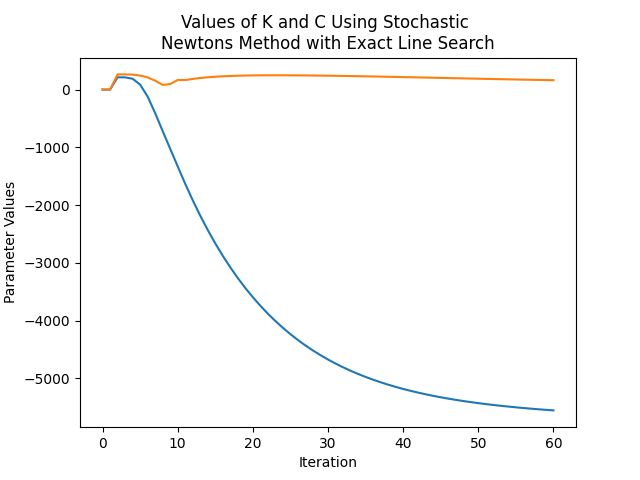
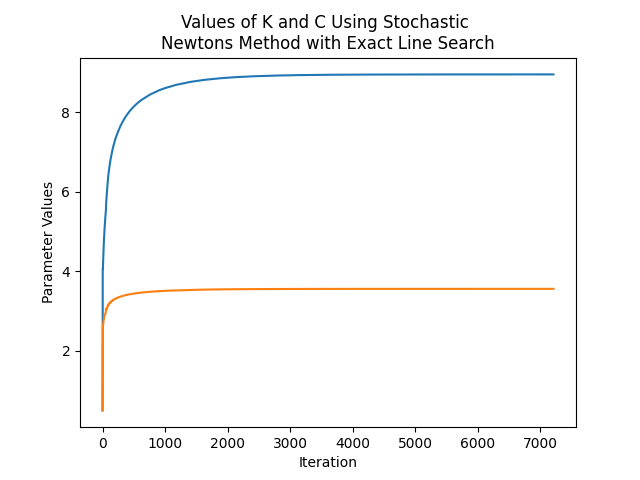
got newtons method working correctly

diff --git a/problem2/newtons_method.py b/problem2/newtons_method.py
@@ -166,13 +166,11 @@ def exact_line_search(
 ) -> np.ndarray[float, float]:
     '''
     '''
-    log_values = np.logspace(-2, 2, num = 4, base = 10.0)
-    incremental_values = np.arange(0.2, 1.01, 0.2)
+    log_values = np.logspace(-10, -5, num = 5, base = 10.0)
 
-    step_sizes = np.outer(log_values, incremental_values).flatten()
-    X, Y = np.meshgrid(step_sizes, step_sizes)
+    X, Y = np.meshgrid(log_values, log_values)
     meshed_step_sizes = np.stack((X, Y), axis = -1)
-    meshed_step_sizes = meshed_step_sizes.reshape(len(step_sizes)**2, 2)
+    meshed_step_sizes = meshed_step_sizes.reshape(len(log_values)**2, 2)
 
     exact_lines = np.array([
         [
@@ -197,15 +195,13 @@ def exact_line_search(
 
 def newtons_method_using_exact_line_search(
     y : np.ndarray,
-    tolerance : float = 10,
+    tolerance : float = 1e-2,
     damping_factor : float = 1e-10
 ) -> tuple[float, float, np.ndarray, np.ndarray, np.ndarray]:
     '''
     '''
     _k = 0.5
     _c = 0.5
-
-    alpha = 1e-10
     
     k_history = []
     k_history.append(_k)
@@ -224,33 +220,23 @@ def newtons_method_using_exact_line_search(
     )
 
     while (np.amax(np.abs(omega)) > tolerance):
+        hessian = log_likelihood_hessian(_k, _c, y)
+
         omega = -np.linalg.solve(
-            np.linalg.inv(log_likelihood_hessian(_k, _c, y) + damping_factor * np.eye(2)),
+            np.linalg.inv(hessian + damping_factor * np.eye(2)),
             log_likelihood_gradient(_k, _c, y)
         )
+
+        meshed_step_size = exact_line_search(_k, _c, y, omega)
         
-        _k = _k + alpha * omega[0]
+        _k = _k + meshed_step_size[0] * omega[0]
         k_history.append(_k)
 
-        _c = _c + alpha * omega[1]
+        _c = _c + meshed_step_size[1] * omega[1]
         c_history.append(_c)
 
         log_likelihood = log_likelihood_function(_k, _c, y)
         log_likelihood_history.append(log_likelihood)
-
-        while log_likelihood_function(_k, _c, y) > log_likelihood:
-            alpha *= 0.1
-
-            _k = _k + alpha * omega[0]
-            k_history.append(_k)
-
-            _c = _c + alpha * omega[1]
-            c_history.append(_c)
-
-            log_likelihood = log_likelihood_function(_k, _c, y)
-            log_likelihood_history.append(log_likelihood)
-
-        alpha = alpha**0.5
 
     best_k = _k
     best_c = _c

diff --git a/problem2/Problem2.py b/problem2/Problem2.py
@@ -96,6 +96,9 @@ def optimizer_3_report(
     tolerance = 1e-1
     best_k, best_c, k_history, c_history, log_likelihood_history = stochastic_gradient_descent_using_exact_line_search(y, tolerance)
 
+    print(best_k)
+    print(best_c)
+
     # Plot Log-Likelihood
     iterations = np.arange(0, len(log_likelihood_history))
     sns.lineplot(x = iterations, y = log_likelihood_history)
@@ -167,23 +170,23 @@ if __name__ == '__main__':
 
     y = np.genfromtxt(file_directory, delimiter = ',').flatten()
 
-    start_time = time.time()
-    optimizer_1_report(y)
-    end_time = time.time()
-    total_time = end_time - start_time
-    print(fr'Total time taken for optimizer 1: {total_time}')
+    # start_time = time.time()
+    # optimizer_1_report(y)
+    # end_time = time.time()
+    # total_time = end_time - start_time
+    # print(fr'Total time taken for optimizer 1: {total_time}')
 
-    start_time = time.time()
-    optimizer_2_report(y)
-    end_time = time.time()
-    total_time = end_time - start_time
-    print(fr'Total time taken for optimizer 2: {total_time}')
+    # start_time = time.time()
+    # optimizer_2_report(y)
+    # end_time = time.time()
+    # total_time = end_time - start_time
+    # print(fr'Total time taken for optimizer 2: {total_time}')
 
-    start_time = time.time()
-    optimizer_3_report(y)
-    end_time = time.time()
-    total_time = end_time - start_time
-    print(fr'Total time taken for optimizer 3: {total_time}')
+    # start_time = time.time()
+    # optimizer_3_report(y)
+    # end_time = time.time()
+    # total_time = end_time - start_time
+    # print(fr'Total time taken for optimizer 3: {total_time}')
 
     start_time = time.time()
     optimizer_4_report(y)
